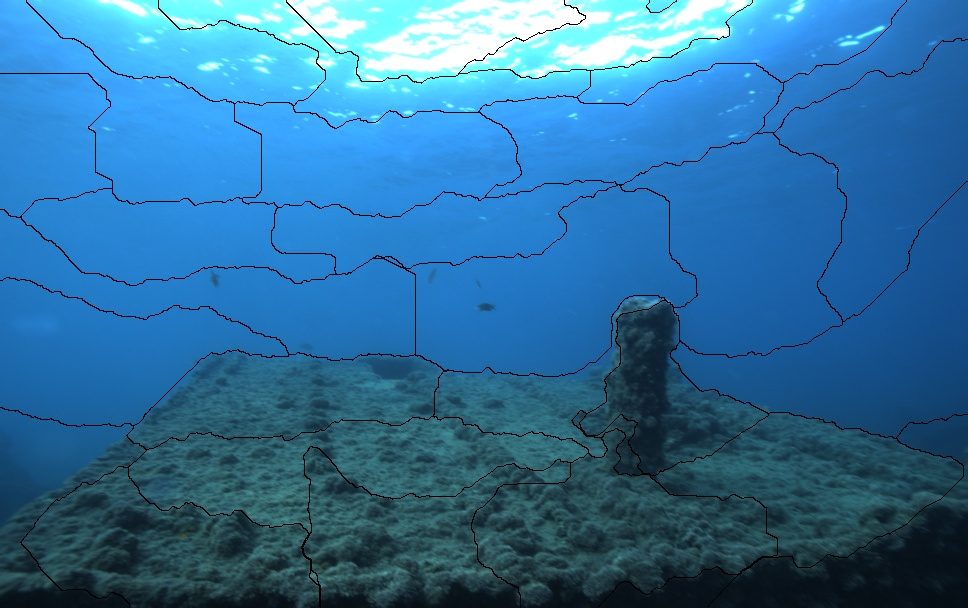
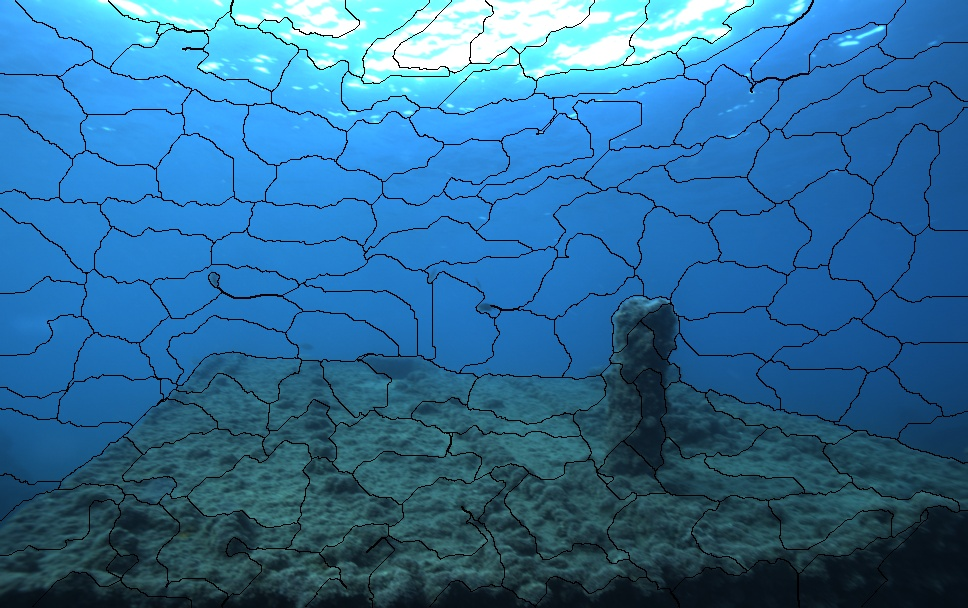
superpixels segmentation

diff --git a/SLIC.py b/SLIC.py
@@ -12,16 +12,15 @@ import matplotlib as mpl
 import matplotlib.pyplot as plt
 import cv2
 
-img = cv2.imread('monoUWNet/samples/00032065.tiff')
+img = cv2.imread('monoUWNet/samples/00032677.tiff')
 
-converted_img = cv2.cvtColor(img, cv2.COLOR_BGR2HSV)
+hsv_image= cv2.cvtColor(img, cv2.COLOR_BGR2HSV)
 
-
-height,width,channels = converted_img.shape
-num_iterations = 100
+height,width,channels = hsv_image.shape
+num_iterations = 500
 prior = 5
-double_step = True
-num_superpixels = 150
+double_step = True 
+num_superpixels = 300
 num_levels = 20
 num_histogram_bins = 5
 
@@ -29,48 +28,92 @@ num_histogram_bins = 5
 seeds = cv2.ximgproc.createSuperpixelSEEDS(width, height, channels, num_superpixels, num_levels, prior, num_histogram_bins)
 color_img = np.zeros((height,width,3), np.uint8)
 color_img[:] = (0, 0, 255)
-seeds.iterate(converted_img, num_iterations)
 
+# Iterate until segmentation is done
+seeds.iterate(img, num_iterations)
 
-# retrieve the segmentation result
+# Get the labels for each pixel
 labels = seeds.getLabels()
+
+superpixel_mask = seeds.getLabelContourMask(False)
+
+# stitch foreground & background together
+mask_inv = cv2.bitwise_not(superpixel_mask)
+result_bg = cv2.bitwise_and(img, img, mask=mask_inv)
+result_fg = cv2.bitwise_and(color_img, color_img, mask=superpixel_mask)
+result = cv2.add(result_bg, result_fg)
+
+# Create an empty image to draw the superpixel segments
+output = np.zeros_like(img)
+
+# Define HSV blue range
+lower_blue = np.array([97,0,70])
+upper_blue= np.array([130,255,255])
+
+# Define HSV white range
+lower_white = np.array([0,0,150])
+upper_white = np.array([180,255,255])
+
+light_purple = (255, 213, 184)
+
+dark_blue = (122, 1, 1)
+
+
+# Loop over each superpixel and color it in either light blue or light yellow
+for i in range(num_superpixels):
+    mask = labels == i
+    if (np.count_nonzero((hsv_image[mask] >= lower_blue).all(axis=1) & (hsv_image[mask] <= upper_blue).all(axis=1)) >= len(hsv_image[mask])) or (np.count_nonzero((hsv_image[mask] >= lower_white).all(axis=1) & (hsv_image[mask] <= upper_white).all(axis=1)) >= len(hsv_image[mask])):
+        output[mask] = light_purple
+    else:
+        output[mask] = dark_blue
+
+
+cv2.imshow('results', result)
+cv2.waitKey(0)
+# Show image
+cv2.imshow('Superpixel segmentation', output)
+cv2.waitKey(0)
+cv2.destroyAllWindows()
+
+
 
 
 # labels output: use the last x bits to determine the color
-num_label_bits = 2
-labels &= (1<<num_label_bits)-1
-labels *= 1<<(16-num_label_bits)
+# num_label_bits = 2
+# labels &= (1<<num_label_bits)-1
+# labels *= 1<<(16-num_label_bits)
+# labels = (labels * 255).round().astype(np.uint8)
 
 
-mask = seeds.getLabelContourMask(False)
+# mask = seeds.getLabelContourMask(False)
 
 
-# stitch foreground & background together
-mask_inv = cv2.bitwise_not(mask)
-result_bg = cv2.bitwise_and(img, img, mask=mask_inv)
-result_fg = cv2.bitwise_and(color_img, color_img, mask=mask)
-result = cv2.add(result_bg, result_fg)
+# # stitch foreground & background together
+# mask_inv = cv2.bitwise_not(mask)
+# result_bg = cv2.bitwise_and(img, img, mask=mask_inv)
+# result_fg = cv2.bitwise_and(color_img, color_img, mask=mask)
+# result = cv2.add(result_bg, result_fg)
 
 
-cv2.namedWindow('mask',0)
-cv2.namedWindow('result_bg',0)
-cv2.namedWindow('result_fg',0)
-cv2.namedWindow('result',0)
+# cv2.namedWindow('mask',0)
+# cv2.namedWindow('result_bg',0)
+# cv2.namedWindow('result_fg',0)
+# cv2.namedWindow('result',0)
 
 
-cv2.imshow('mask',mask_inv)
-cv2.imshow('result_bg',result_bg)
-cv2.imshow('result_fg',result_fg)
-cv2.imshow('result',result)
+# cv2.imshow('mask',mask_inv)
+# cv2.imshow('result_bg',result_bg)
+# cv2.imshow('result_fg',result_fg)
+# cv2.imshow('result',result)
 
 
-cv2.imwrite('mask.jpg',mask_inv)
-cv2.imwrite('result_bg.jpg',result_bg)
-cv2.imwrite('result_fg.jpg',result_fg)
-cv2.imwrite('result.jpg',result)
+# cv2.imwrite('mask.jpg',mask_inv)
+# cv2.imwrite('result_bg.jpg',result_bg)
+# cv2.imwrite('result_fg.jpg',result_fg)
+# cv2.imwrite('result.jpg',result)
 
 
-cv2.waitKey(0)
-cv2.destroyAllWindows()
-cv2.waitKey(1)
+# cv2.waitKey(0)
+# cv2.destroyAllWindows()
+# cv2.waitKey(1)
 # cv2.imwrite("lsc_mask.tif", slic_mask) #holes visible when zooming in

diff --git a/rotate.py b/rotate.py
@@ -123,8 +123,8 @@ def main(args):
         # Cutting depth
         # for x in range(0, rows):
         #     for y in range(0, cols):
-        #         if depth[x,y] > 0.9:
-        #             depth[x,y] = 0.9
+        #         if depth[x,y] > 0.6:
+        #             depth[x,y] = 0.6
 
         fig = plt.figure(figsize=(15, 10))
         ax = plt.axes(projection="3d")
@@ -190,8 +190,6 @@ def main(args):
 
         if args.reprojection:
             
-            print('hola')
-    
             reprojection = points_to_image_torch(point_array_rescaled[:, 0].astype(int),
                                                  point_array_rescaled[:, 1].astype(int),
                                                  point_array_rescaled[:, 2], (rows,cols))
